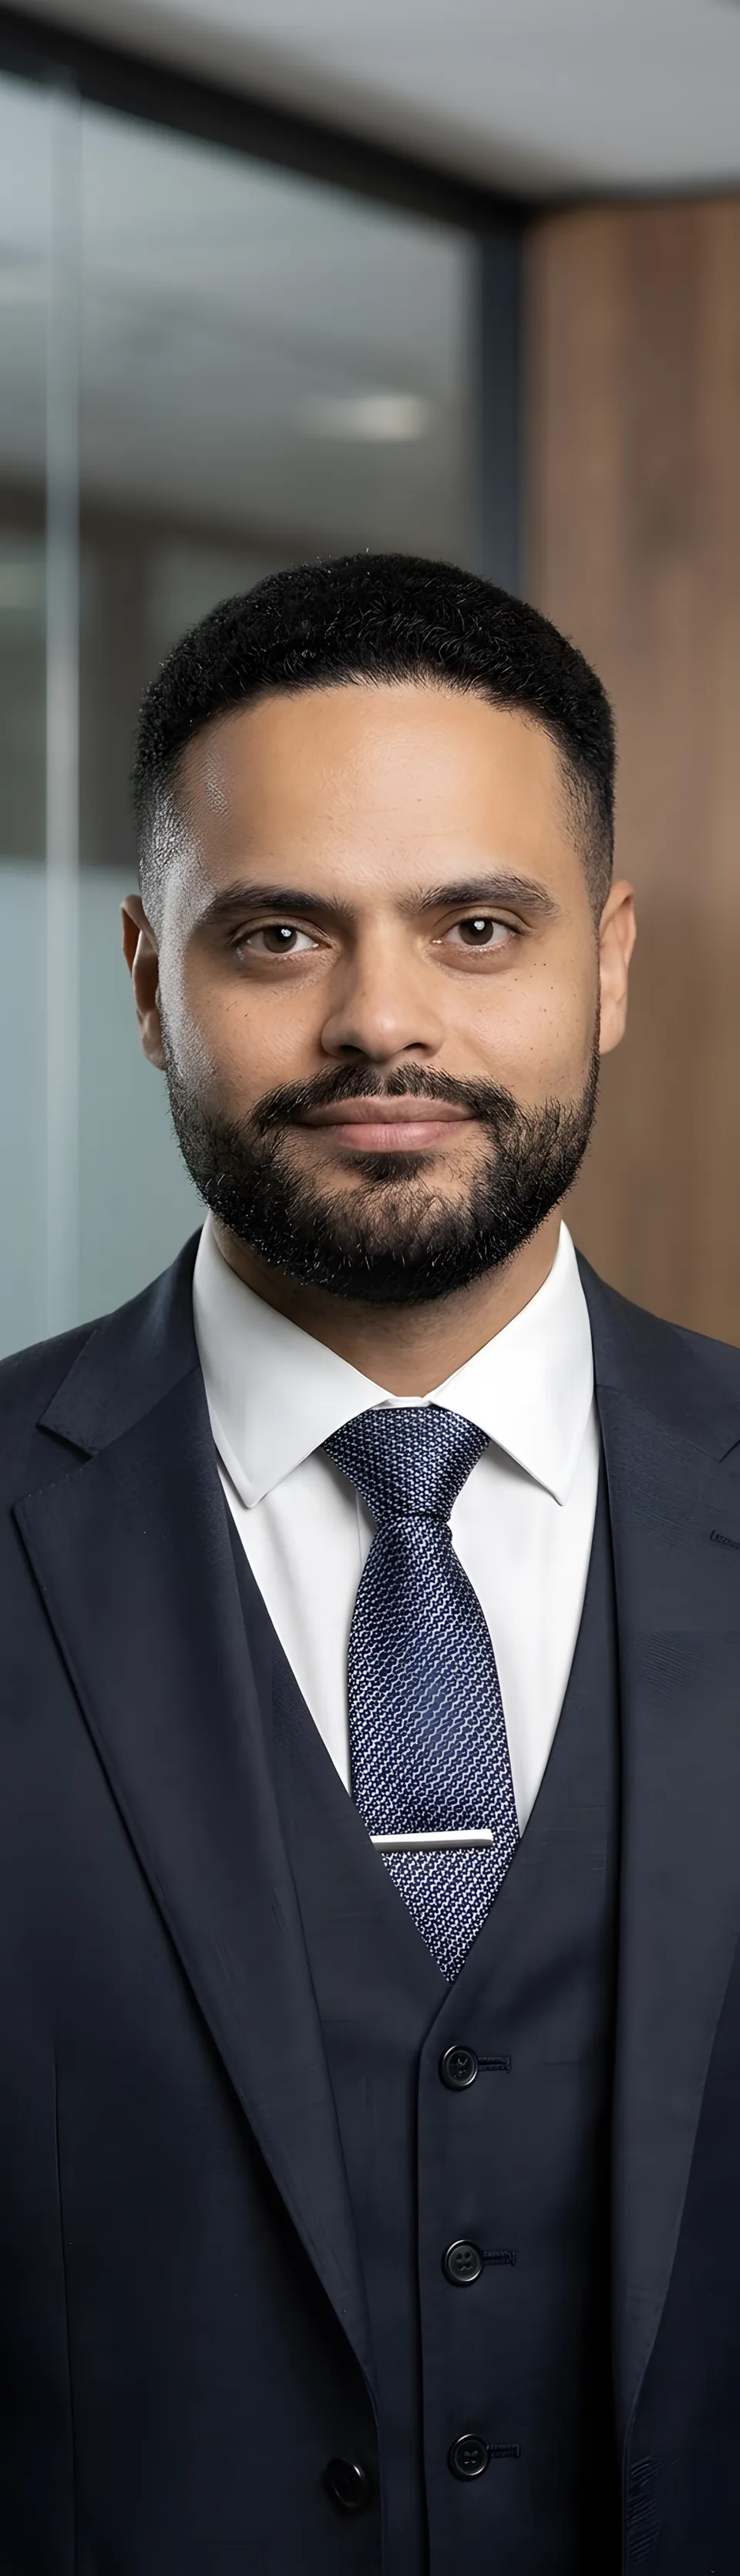
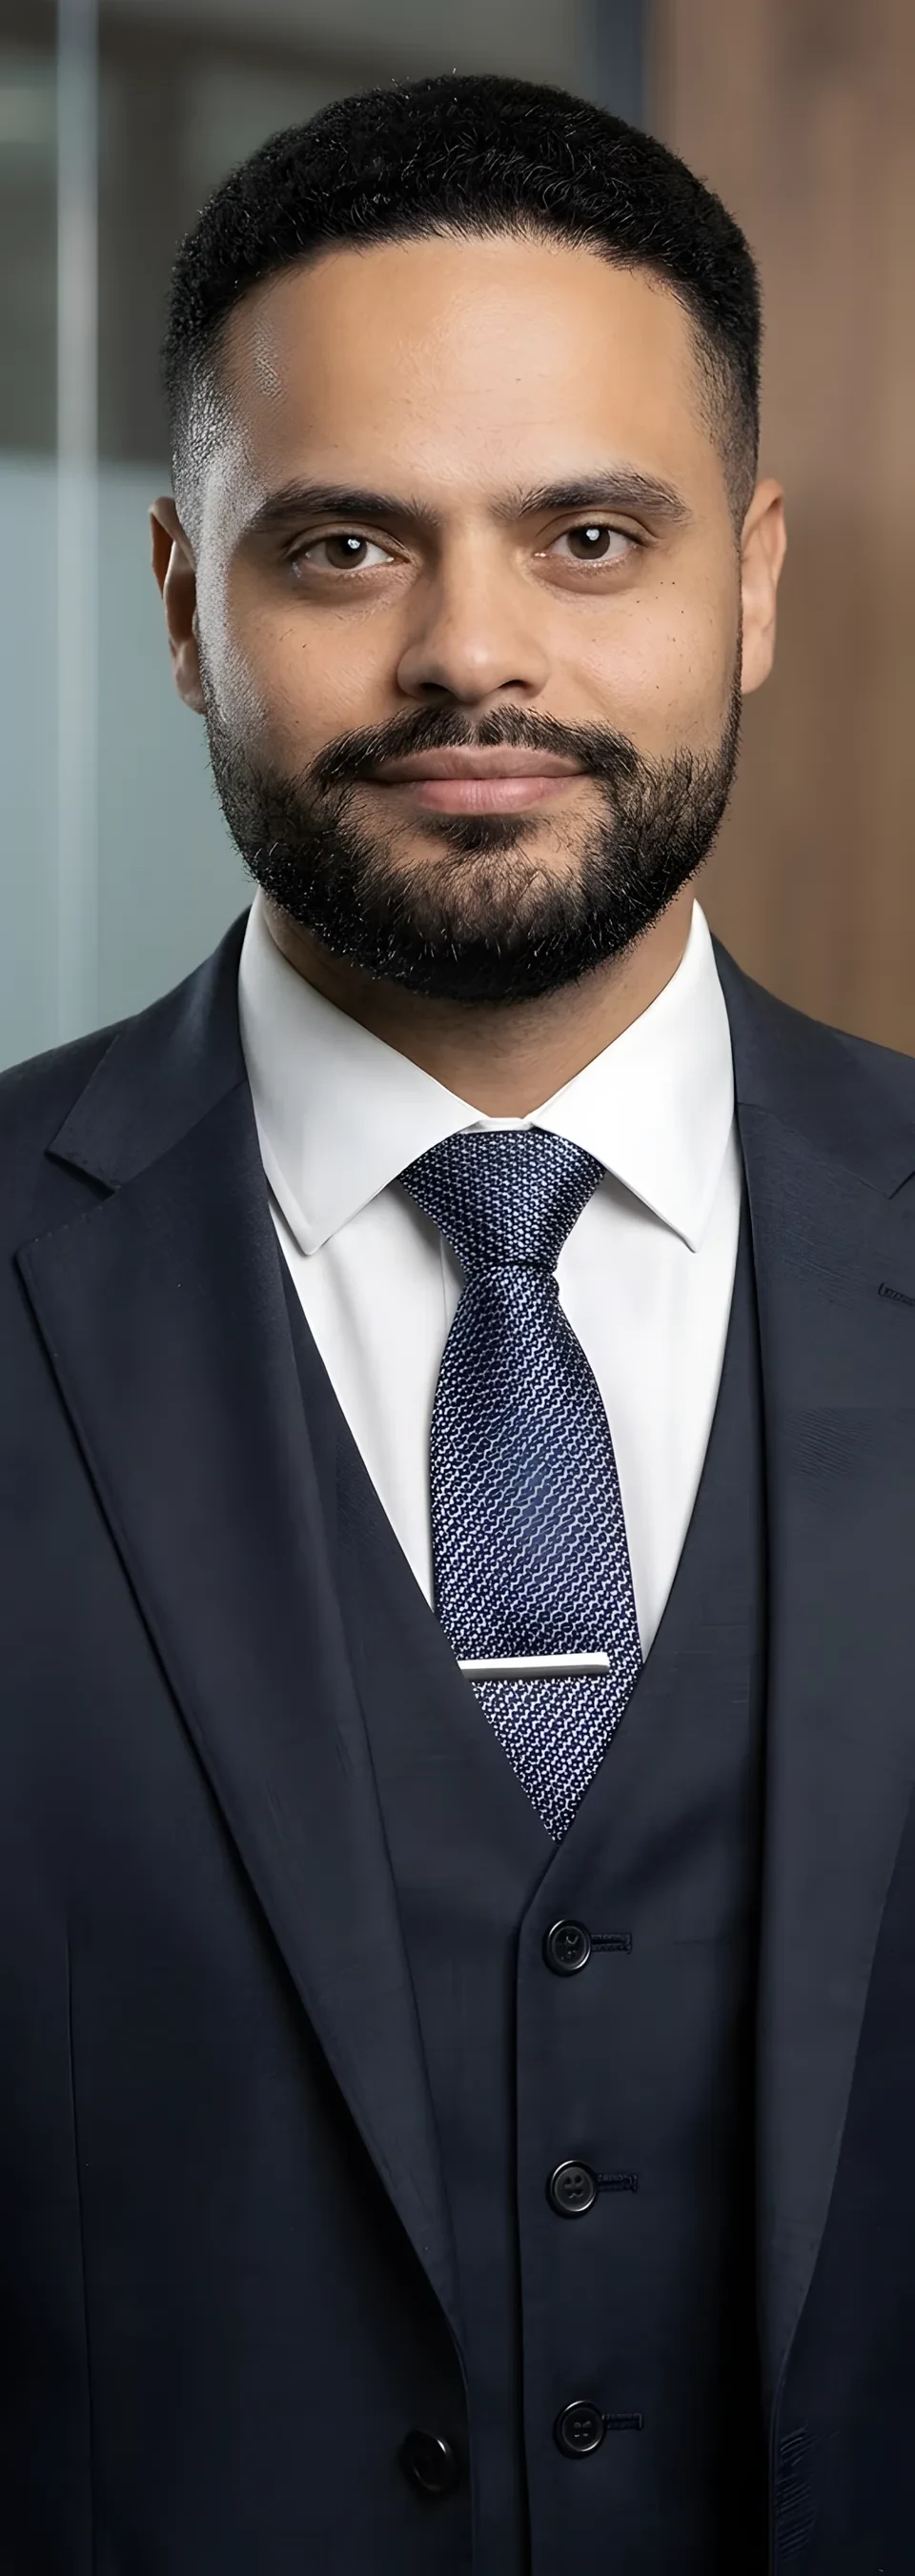
Trim blurred headroom from portrait source images
Crop 640px of empty background above the head out of all headshot
variants (960x3344 -> 960x2704), regenerated with sharp. Update the
img dimensions and ease object-position now that the file starts at
the hairline.

diff --git a/src/style.css b/src/style.css
@@ -1093,7 +1093,7 @@ main,
 .operator-card img {
   height: min(80vh, 860px);
   object-fit: cover;
-  object-position: 50% 16%;
+  object-position: 50% 8%;
   filter: grayscale(0.9) contrast(1.04);
 }
 
@@ -1839,7 +1839,7 @@ main,
 
   .operator-card img {
     height: 600px;
-    object-position: 50% 15%;
+    object-position: 50% 8%;
   }
 
   .record-phases article {

diff --git a/index.html b/index.html
@@ -299,7 +299,7 @@
           <picture>
             <source type="image/avif" srcset="/danilo-headshot-320.avif 320w, /danilo-headshot-640.avif 640w, /danilo-headshot-960.avif 960w" sizes="(max-width: 760px) 68vw, 320px">
             <source type="image/webp" srcset="/danilo-headshot-320.webp 320w, /danilo-headshot-640.webp 640w, /danilo-headshot-960.webp 960w" sizes="(max-width: 760px) 68vw, 320px">
-            <img src="/danilo-headshot-960.webp" alt="Danilo Ojeda" width="960" height="3344" loading="lazy" decoding="async">
+            <img src="/danilo-headshot-960.webp" alt="Danilo Ojeda" width="960" height="2704" loading="lazy" decoding="async">
           </picture>
           <figcaption><span>Operator 001</span><b>Danilo Ojeda</b><small>Minneapolis / 44.97° N</small></figcaption>
         </figure>